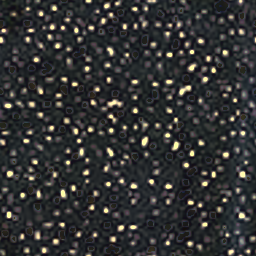
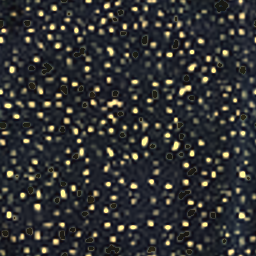
cabin777 econ w26 candidate (from w25 A 8.0 / B 8.0): diamond tile gain 1.25 -> 1.05 and diamond pan #50566f (less blue); fleck keep 0.8, no core trim, peak 1.25x (w25 read as dust at row distance); tick strokes 0.72 with the stroke rim eased 60 % (thinner, not dimmer); tick pans #565c78; pillow dog
Claude-Session: https://claude.ai/code/session_01HMqQTEKxbzwLX6D6sLZLPN

diff --git a/cabin777/src/09a_econ.js b/cabin777/src/09a_econ.js
@@ -45,9 +45,9 @@ function econCrownLoft(secs, segC, crownAt) {
   for (let i = 0; i < n; i++) g.i.push(c0, c0 + 1 + ((i + 1) % n), c0 + 1 + i);
   return fixWinding(g);
 }
-const ECON_PAN = { ...SEATMAT.yFabric, c: photoBase('#4a5378', 'y_tick') };   // w25 (w24b-4): tick pans B/R 2.17 vs ~1.8 -> less blue
+const ECON_PAN = { ...SEATMAT.yFabric, c: photoBase('#565c78', 'y_tick') };   // w26 (w25a-5 / w25b-2): L69-74 vs 77-91, still blue; w25 (w24b-4): tick pans B/R 2.17 vs ~1.8 -> less blue
 // w25 (w24a-1 / w24b-3): the diamond pan read as a bold field of light stars head-on (L99-101 vs 74 in y_47300) -> darker
-const ECON_PAN_B = { ...SEATMAT.yFabricB, c: photoBase('#4a5482', 'y_diamond') };
+const ECON_PAN_B = { ...SEATMAT.yFabricB, c: photoBase('#50566f', 'y_diamond') };   // w26 (w25a-1 / w25b-1): B/R 2.27-2.41 vs 1.81
 function econSeat(B, x0, lod, opts = {}) {
   const [hy, hz] = ECON.hinge;
   const F = opts.fab || SEATMAT.yFabric;
@@ -143,7 +143,7 @@ function econSeat(B, x0, lod, opts = {}) {
       const sx = g.p[k + 1], sy = -g.p[k], sz = g.p[k + 2], l = Math.hypot(sx, sz) || 1;   // w11: sphere poles at the thin side tips (a pole on the face read as a tuft)
       const X = sx * (1 + 0.35 * sz * sz) * (0.92 + 0.08 * l), Z = sz * (1 + 0.35 * sx * sx) * (0.92 + 0.08 * l);   // w10 gap: smooth squircle (|t|^0.45 creased the middle)
       // w6: wider (0.39 = 0.8 of the pan, y_47300 0.81 / sans 14 0.83), bow-tie outline with pinched corners
-      const pull = 1 + 0.15 * Math.abs(X * Z);                                  // w9 A: corners pulled out (y_47300)
+      const pull = 1 + 0.3 * Math.pow(Math.abs(X * Z), 1.5);   // w26 (w25b-5): dog-ear corners                                  // w9 A: corners pulled out (y_47300)
       g.p[k] = 0.165 * X * (1 - 0.06 * (1 - Z * Z)) * pull; g.p[k + 2] = 0.11 * Z * (1 - 0.1 * (1 - X * X) - (Z > 0 ? 0.04 * (1 - X * X) : 0)) * pull;   // w14 gap: concave top edge   // w10 B: waist eased (read as a bone)
       g.p[k + 1] = sy * (0.006 + 0.046 * Math.pow(Math.max(0, 1 - Math.pow(l, 3)), 0.6));   // thins to the seamed rim; w14 gap: ~10 cm full (p90/p10 1.3 vs 2.2-2.8 in y_47300 read as a board)
     }
@@ -155,10 +155,10 @@ function econSeat(B, x0, lod, opts = {}) {
     B.add(g, M4.mul(BH, M4.trs(0, 0.155, -0.112, 0, -74 * DEG)), SEATMAT.yPillow);
     // w19 A + B: a ~4 mm piped seam round the rim (y_47300 pillows), the same outline law at l = 1 [D]
     const rim = []; for (let i = 0; i <= 48; i++) {
-      const t = i / 48 * 2 * Math.PI, sx = Math.cos(t), sz = Math.sin(t), X = sx * (1 + 0.35 * sz * sz), Z = sz * (1 + 0.35 * sx * sx), pull = 1 + 0.15 * Math.abs(X * Z);
+      const t = i / 48 * 2 * Math.PI, sx = Math.cos(t), sz = Math.sin(t), X = sx * (1 + 0.35 * sz * sz), Z = sz * (1 + 0.35 * sx * sx), pull = 1 + 0.3 * Math.pow(Math.abs(X * Z), 1.5);
       rim.push([0.165 * X * (1 - 0.06 * (1 - Z * Z)) * pull, 0, 0.11 * Z * (1 - 0.1 * (1 - X * X) - (Z > 0 ? 0.04 * (1 - X * X) : 0)) * pull]);
     }
-    B.add(gTube(rim, 0.0035, 6, false), M4.mul(BH, M4.trs(0, 0.155, -0.112, 0, -74 * DEG)), { ...SEATMAT.yPillow, c: '#343e5c' });   // w20 A + B: pillow-coloured piping (a darker ring read as an outline)
+    B.add(gTube(rim, 0.0022, 6, false), M4.mul(BH, M4.trs(0, 0.155, -0.112, 0, -74 * DEG)), { ...SEATMAT.yPillow, c: '#2e3652' });   // w26 (w25b-5): thinner, darker (read as a light ring)   // w20 A + B: pillow-coloured piping (a darker ring read as an outline)
   }
   // life-vest pouch: dark saucer-shaped holder under the pan front with a red pull strap hanging from its rim (y_47302:
   // ~0.15-0.18 m discs under each seat) [D]

diff --git a/cabin777/test/make_swatches.py b/cabin777/test/make_swatches.py
@@ -384,10 +384,14 @@ def y_photo(name):
         # photo's own column profile (mean down each column) 1.6x so the dark channels survive the mip chain [D]
         c = r.mean(2).mean(0, keepdims=True); c = c / c.mean()
         r = r * (c ** 0.15)[..., None]   # w20 (gap19): straight columns carry their own profile; 0.6 over-sharpened close up
-        m = np.median(r.mean(2)); r = np.where(r.mean(2, keepdims=True) > m, m + 0.65 * (r - m), r)   # w25 (w23a-2 / w23b-1): 0.8 -> 0.65 (q15 bright 0.12 vs 0.083; ~0.02 per 0.1)   # w21 / w22 B: strokes toward the ground (q15 bright 0.14 vs 0.083 after the -0.5 mip bias)
+        m = np.median(r.mean(2)); r = np.where(r.mean(2, keepdims=True) > m, m + 0.72 * (r - m), r)   # w26 (w25a-3): 0.65 dimmed instead of thinning -> 0.72 + edge erosion below; w25 (w23a-2 / w23b-1): 0.8 -> 0.65 (q15 bright 0.12 vs 0.083; ~0.02 per 0.1)   # w21 / w22 B: strokes toward the ground (q15 bright 0.14 vs 0.083 after the -0.5 mip bias)
+        # w26 (w25a-3 / w25b-2): strokes 1.5x the photo's coverage, blobs ~1.4x fat -> the stroke rim (above-median pixels with a
+        # sub-median 4-neighbour) eases 60 % toward the ground, cores keep their peak [D]
+        hi = r.mean(2) > m; core = hi & np.roll(hi, 1, 0) & np.roll(hi, -1, 0) & np.roll(hi, 1, 1) & np.roll(hi, -1, 1)
+        r = np.where((hi & ~core)[..., None], m + 0.4 * (r - m), r)
     if name == 'y_diamond':
         # econ w25 (w23b-2): the lattice washed out on the bluer #5f6ba0 ground (e4 bright 0.03 vs 0.11 in y_47306) -> 1.25x [D]
-        m = np.median(r.mean(2)); r = np.maximum(m + 1.25 * (r - m), 0.03)
+        m = np.median(r.mean(2)); r = np.maximum(m + 1.05 * (r - m), 0.03)   # w26 (w25a-1 / w25b-1): 1.25 overshot (e1 p90/50 1.79 vs 1.51)
     if name == 'y_fleck':
         # the 3.4 mm/px source smears each 3-5 mm fleck over ~3 px: keep only the core of the excess over the ground
         # (bright area 27 % -> ~12 %, y_47306 pad 11 %) and tint it pale blue (#9fb0e0 vs white, w15 A) [D]
@@ -395,12 +399,12 @@ def y_photo(name):
         # econ w25 (w23a-1): the tile carried ~2x the photo's flecks close up (e4 pad coverage 0.29 vs 0.13 in y_47306,
         # merged clusters) and the exponent only dimmed them: drop ~30 % of the fleck components (fixed seed, a kept fleck
         # clears the flecks touching it, so merged clusters break up) and trim the soft skirts, exponent 1.0, flecks 1.1x [D]
-        e, dm = _thin_flecks(e, ep, keep=0.7, seed=24)
+        e, dm = _thin_flecks(e, ep, keep=0.8, seed=24, trim=0.0)   # w26 (w25a-2 / w25b-3): keep 0.7 + trim read as dust at row distance
         # a dropped fleck and its dark sharpening halo become the surrounding ground (a flat g read brown) [D]
         base = np.minimum(r, g); dd = np.clip(_blur_wrap(dm, 1.5) * 2.0, 0, 1)
         out = (1 - np.clip(dd * 3, 0, 1)).astype(np.float32)        # the local ground around each dropped fleck fills it
         gl = np.stack([_blur_wrap(base[..., c] * out, 3.0) for c in range(3)], 2) / np.maximum(_blur_wrap(out, 3.0), 1e-3)[..., None]
-        r = base * (1 - dd[..., None]) + gl * dd[..., None] + 1.1 * ep * (e / ep) ** 1.0 * np.array([1.02, 1.0, 0.92], np.float32)   # w25 (w24a-2): distance flecks weak (p90/p10 2.48 vs 3.05)   # w20 A + B: fewer, less blue cores (B/R 3.0 vs 2.54); w22 B: exp 1.2 (bright 0.18 vs 0.153 after the mip bias)   # w20 (gap19): 1.25 thinned the flecks away at row distance
+        r = base * (1 - dd[..., None]) + gl * dd[..., None] + 1.25 * ep * (e / ep) ** 1.0 * np.array([1.02, 1.0, 0.92], np.float32)   # w25 (w24a-2): distance flecks weak (p90/p10 2.48 vs 3.05)   # w20 A + B: fewer, less blue cores (B/R 3.0 vs 2.54); w22 B: exp 1.2 (bright 0.18 vs 0.153 after the mip bias)   # w20 (gap19): 1.25 thinned the flecks away at row distance
     # w20 (gap19): the 0.5-2.5 cm band (columns, flecks, dashes) is what survives at row distance; boost it in log luminance and
     # damp the < 1.2 mm JPEG grain (tile CV at 150 px/m: tick 0.31 vs 0.46-0.49 in y_47300, fleck 0.31 vs 0.84) [D]
     # w20 A + B: the full boost overshot (q15 tick bright 0.15 vs 0.083, fleck 0.20 vs 0.154) -> half on tick / fleck
